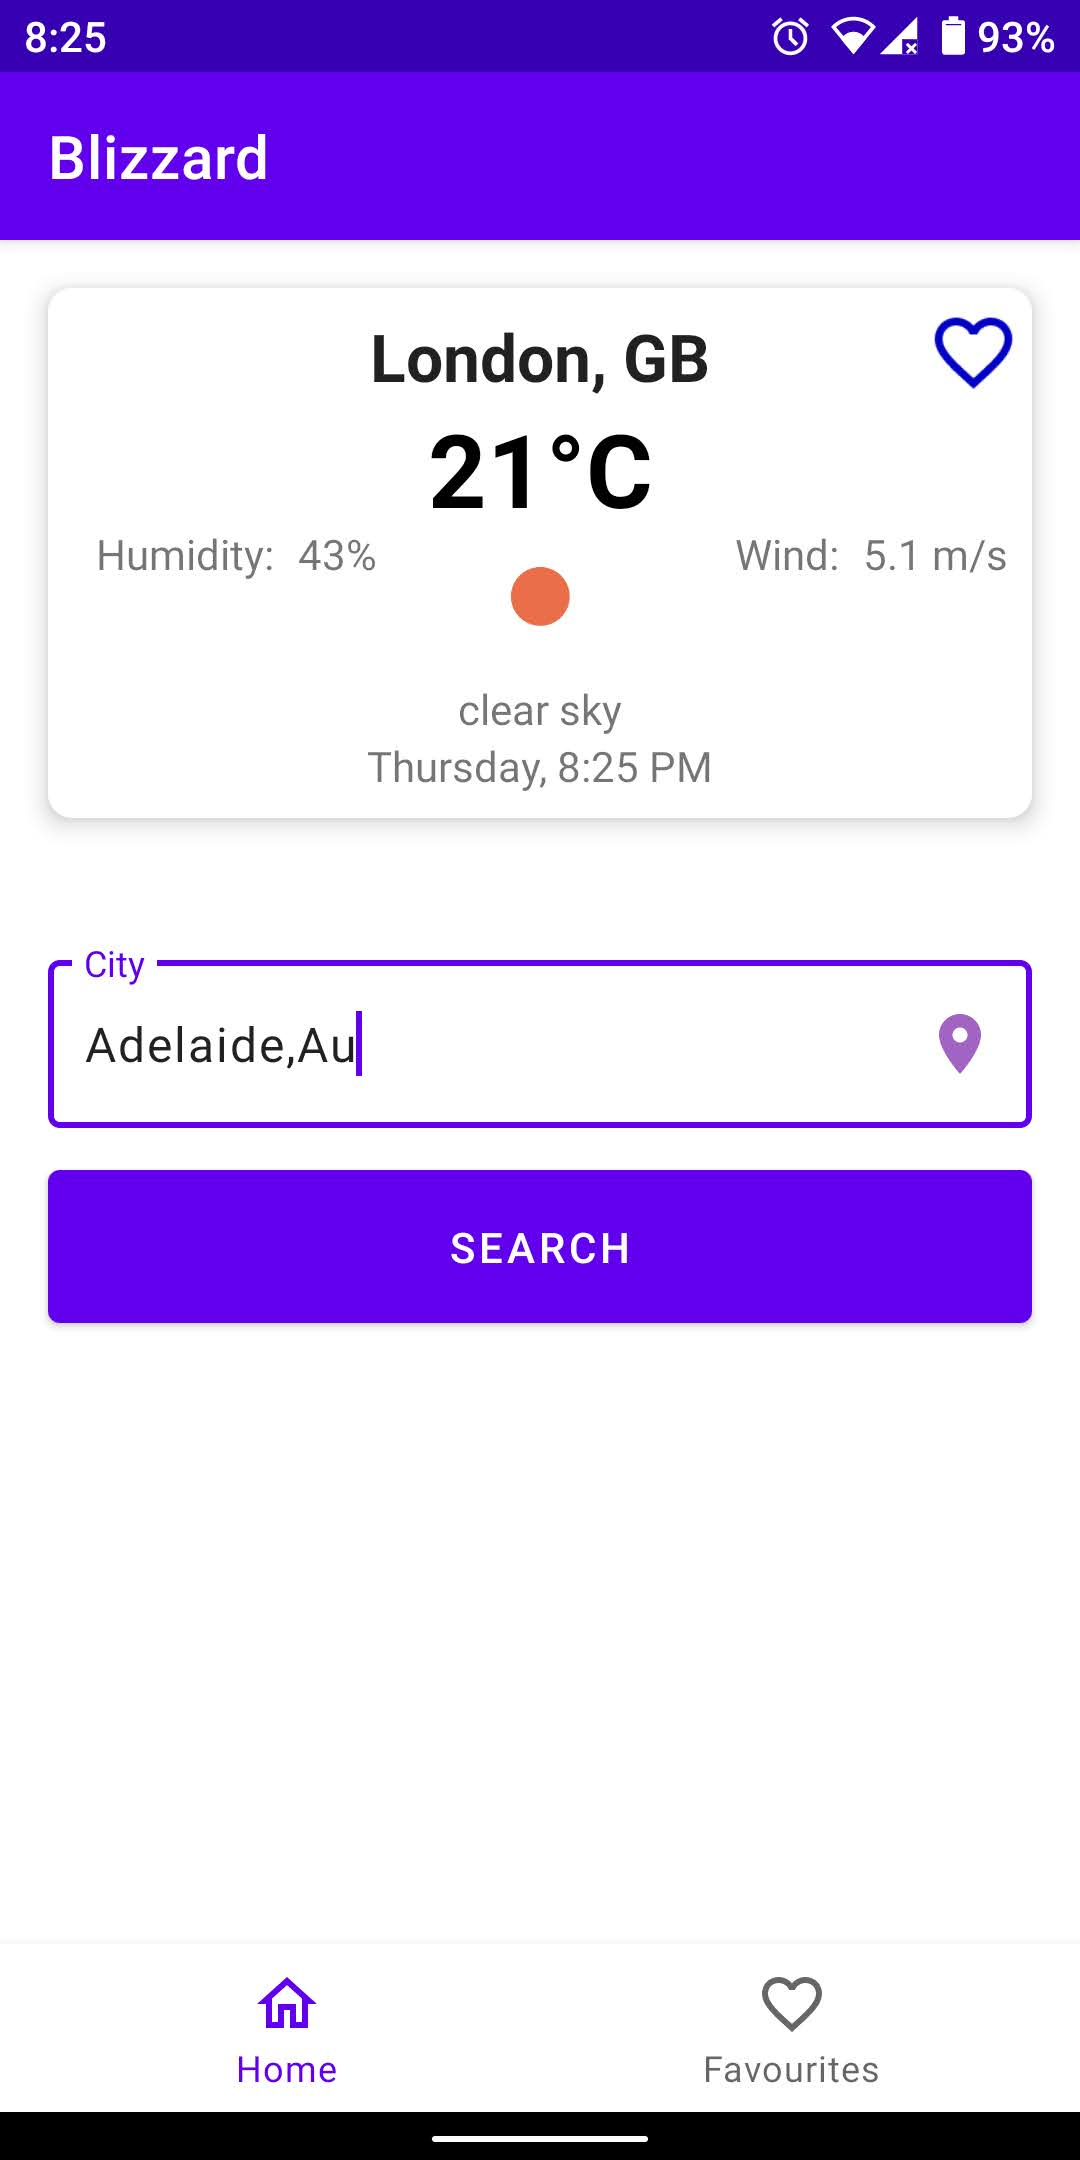
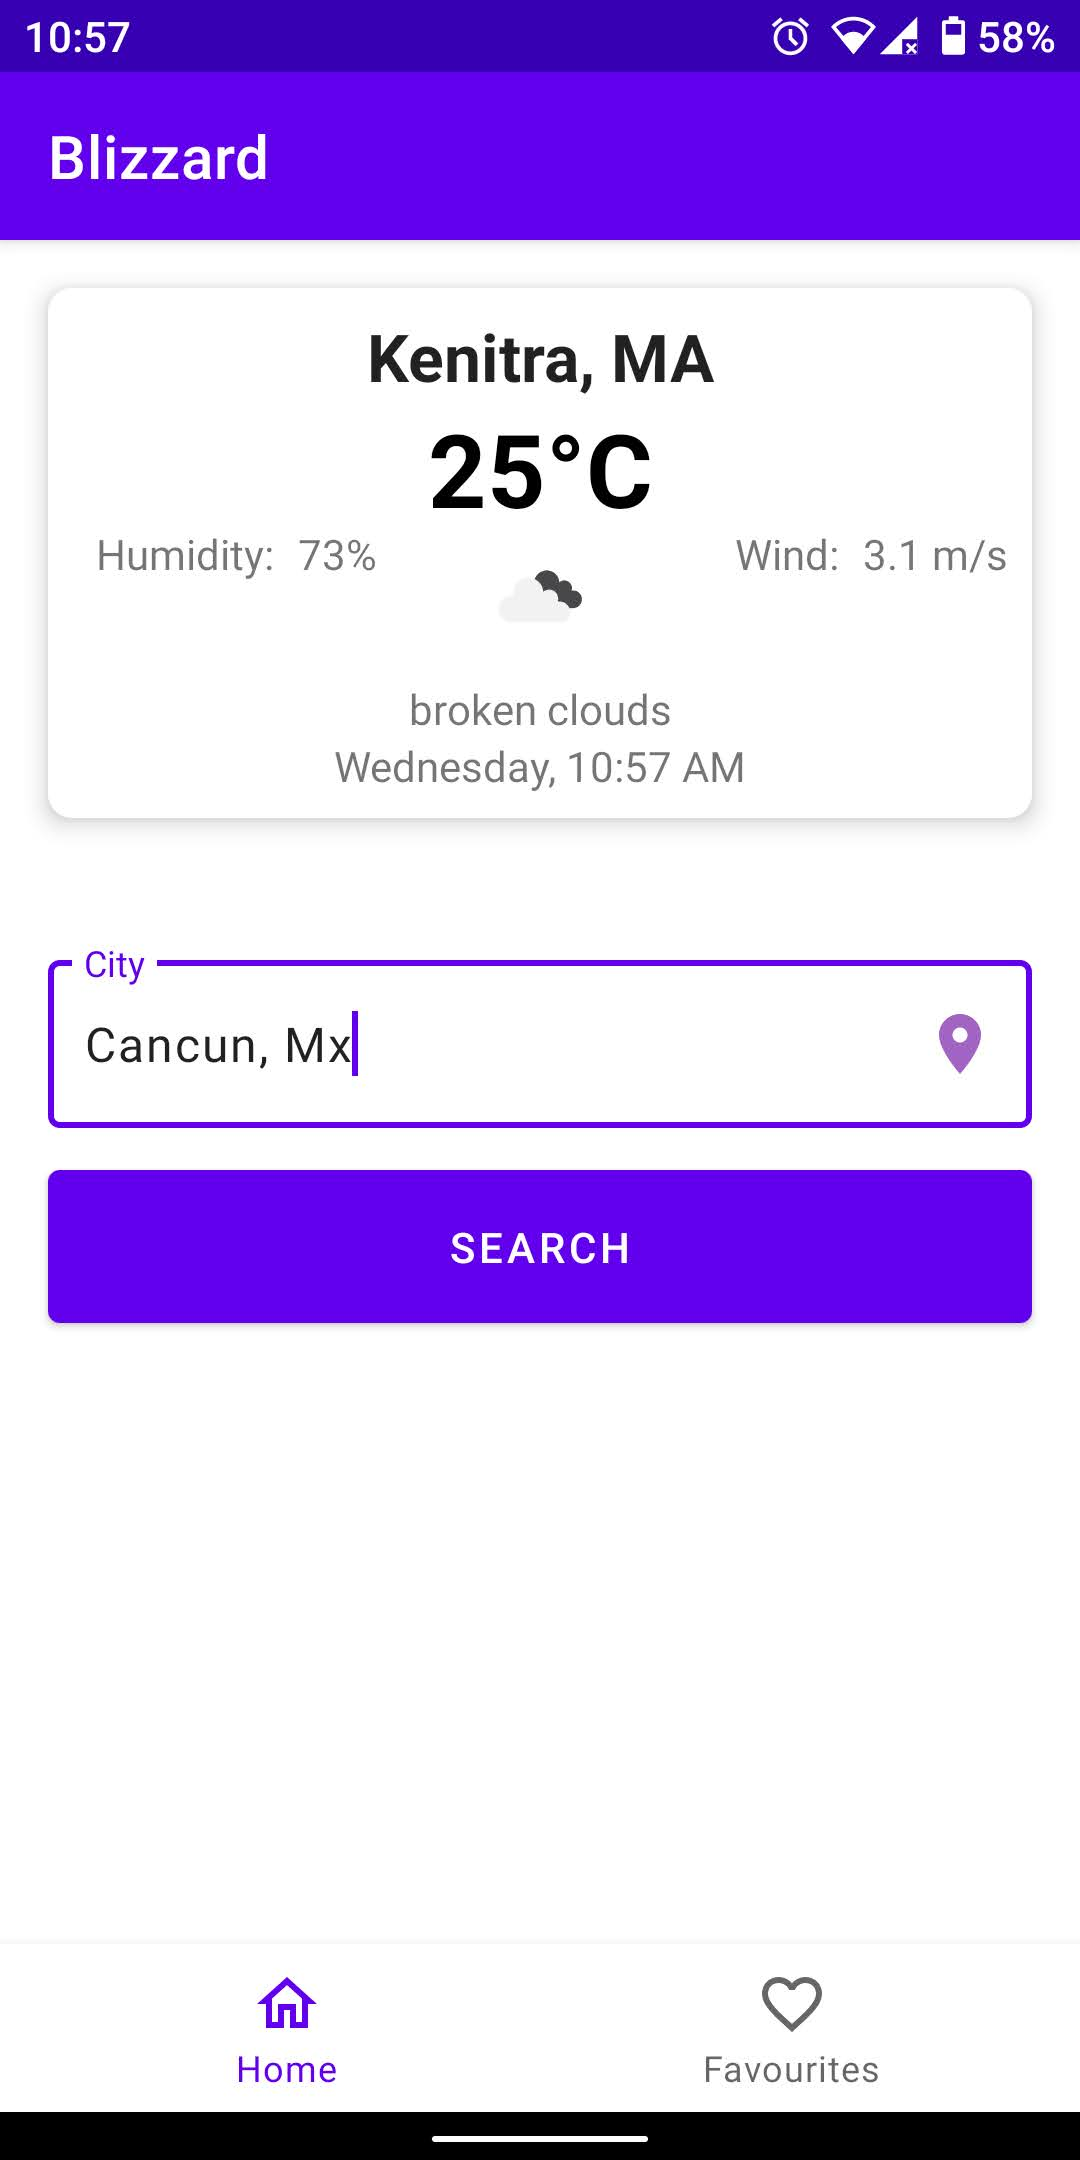
Revert "Add favourite button to card view"
This reverts commit 4ecd72897b1612362eb5ae2cd5f99d4f2526c06f.

diff --git a/app/src/main/java/com/example/blizzard/HomeFragment.java b/app/src/main/java/com/example/blizzard/HomeFragment.java
@@ -98,9 +98,6 @@ public class HomeFragment extends Fragment {
     private TextView tvWindTitle;
     private TextView tvNoInternet;
     private ImageView ivFavourite;
-    Boolean isClicked = false;
-    String cityName;
-
 
 
     @Override
@@ -170,9 +167,9 @@ public class HomeFragment extends Fragment {
             } else if (!mIsNetworkAvailable) {
                 searchBox.setError(getString(R.string.no_internet));
             } else {
-                String searchText = searchBox.getText().toString();
+                String cityName = searchBox.getText().toString();
                 searchByCityName = true;
-                mBlizzardViewModel.getWeather(searchText);
+                mBlizzardViewModel.getWeather(cityName);
                 observeWeatherChanges();
                 animateViews();
             }
@@ -184,29 +181,6 @@ public class HomeFragment extends Fragment {
         });
 
         fabSearch.setOnClickListener(view13 -> reverseViewAnimToInit());
-
-        ivFavourite.setOnClickListener(view14 -> {
-            if (isClicked) {
-                isClicked = false;
-                LoadImage(R.drawable.ic_favorite, ivFavourite);
-                updateIsFavourite(false);
-            } else {
-                isClicked = true;
-                LoadImage(R.drawable.ic_favorite_filed, ivFavourite);
-                updateIsFavourite(true);
-            }
-        });
-    }
-
-    private void updateIsFavourite(boolean b) {
-        if (cityName != null) {
-            Executors.newSingleThreadExecutor()
-                    .execute(() -> {
-                        WeatherDataEntity weatherDataEntity = mBlizzardViewModel.getWeatherByCityName(cityName);
-                        weatherDataEntity.setFavourite(b);
-                        mBlizzardViewModel.updateWeatherData(weatherDataEntity);
-                    });
-        }
     }
 
     private void reverseViewAnimToInit() {
@@ -285,7 +259,7 @@ public class HomeFragment extends Fragment {
         ivFavourite = view.findViewById(R.id.iv_favourite);
     }
 
-    public void makeViewsInvisible() {
+    public void makeViewsInvisible(){
         tvCityTitle.setVisibility(View.INVISIBLE);
         tvCityDescription.setVisibility(View.INVISIBLE);
         tvCityHumidity.setVisibility(View.INVISIBLE);
@@ -434,16 +408,16 @@ public class HomeFragment extends Fragment {
     private void observeWeatherChanges() {
         mBlizzardViewModel.getWeatherLiveData().observe(getViewLifecycleOwner(), weatherData -> {
             if (weatherData != null) {
-                cityName = weatherData.getName();
                 saveToDb(weatherData);
                 mTimeUtil.setTime(weatherData.getDt(), weatherData.getTimezone());
+
                 resolveAppState(weatherData);
             } else {
                 Snackbar.make(view, "Error getting Location", Snackbar.LENGTH_SHORT).show();
                 if (searchByCityName) {
                     Handler handler = new Handler(Looper.getMainLooper());
                     handler.postDelayed(this::reverseViewAnimToInit, 1000L);
-                } else {
+                }else {
                     makeViewsInvisible();
                     ivNoInternet.setVisibility(View.VISIBLE);
                     tvNoInternet.setVisibility(View.VISIBLE);
@@ -453,39 +427,10 @@ public class HomeFragment extends Fragment {
         });
     }
 
-    private void checkIfIsFavourite() {
-        try {
-            WeatherDataEntity entity = mBlizzardViewModel.getWeatherByCityName(cityName);
-            Log.d(TAG, "checkIfIsFavourite: city name is " + cityName);
-            Handler favHandler = new Handler(Looper.getMainLooper());
-            favHandler.post(() -> {
-
-                if (searchByCityName) {
-                    ivFavourite.setVisibility(View.VISIBLE);
-                } else {
-                    ivFavourite.setVisibility(View.INVISIBLE);
-                }
-
-                if (entity.getFavourite()){
-                    isClicked = true;
-                    LoadImage(R.drawable.ic_favorite_filed, ivFavourite);
-                }else {
-                    isClicked = false;
-                    LoadImage(R.drawable.ic_favorite, ivFavourite);
-                }
-
-            });
-        }catch (NullPointerException e){
-            Log.e(TAG, "checkIfIsFavourite: Data not saved yet");
-        }
-
-    }
-
     private void saveToDb(WeatherDataResponse weatherDataResponse) {
         Executors.newSingleThreadExecutor().execute(() -> {
-            WeatherDataEntity entity = new WeatherMapper(mBlizzardViewModel).mapToEntity(weatherDataResponse);
+            WeatherDataEntity entity = WeatherMapper.mapToEntity(weatherDataResponse);
             mBlizzardViewModel.saveWeather(entity);
-            checkIfIsFavourite();
         });
     }
 
@@ -556,11 +501,5 @@ public class HomeFragment extends Fragment {
                 .load(url)
                 .error(R.drawable.ic_cloud)
                 .into(ivWeatherImage);
-    }
-
-    private void LoadImage(int drawable, ImageView imageView) {
-        Glide.with(requireView())
-                .load(drawable)
-                .into(imageView);
     }
 }

diff --git a/app/src/main/java/com/example/blizzard/FavouritesFragment.java b/app/src/main/java/com/example/blizzard/FavouritesFragment.java
@@ -5,7 +5,6 @@ import android.os.Bundle;
 import androidx.annotation.NonNull;
 import androidx.annotation.Nullable;
 import androidx.fragment.app.Fragment;
-import androidx.lifecycle.ViewModelProvider;
 import androidx.recyclerview.widget.LinearLayoutManager;
 import androidx.recyclerview.widget.RecyclerView;
 
@@ -20,7 +19,6 @@ import android.widget.TextView;
 import com.example.blizzard.data.entities.WeatherDataEntity;
 import com.example.blizzard.data.repository.BlizzardRepository;
 import com.example.blizzard.util.FavouriteFragmentAdapter;
-import com.example.blizzard.viewmodel.BlizzardViewModel;
 
 import java.util.ArrayList;
 import java.util.List;
@@ -70,22 +68,12 @@ public class FavouritesFragment extends Fragment {
     }
 
     private void initialiseAdapter() {
-        BlizzardViewModel viewModel = new ViewModelProvider(requireActivity()).get(BlizzardViewModel.class);
+        BlizzardRepository repository = new BlizzardRepository(getContext());
         AtomicReference<List<WeatherDataEntity>> entities = new AtomicReference<>();
         Executors.newSingleThreadExecutor().execute(() -> {
+                    entities.set(repository.getAllDataFromDb());
 
-                    List<WeatherDataEntity> dataEntities = viewModel.getAllDataFromDb();
-                    List<WeatherDataEntity> favWeather = new ArrayList<>();
-
-                    for (WeatherDataEntity dataEntity : dataEntities) {
-                        if (dataEntity.getFavourite()) {
-                            favWeather.add(dataEntity);
-                        }
-                    }
-
-                    entities.set(favWeather);
-
-                    makeViewsVisible(entities);
+            makeViewsVisible(entities);
                 }
         );
 
@@ -100,7 +88,7 @@ public class FavouritesFragment extends Fragment {
                 tvNoData.setVisibility(View.INVISIBLE);
             });
 
-        } else {
+        }else {
             favHandler.postDelayed(() -> {
                 ivNoData.setVisibility(View.VISIBLE);
                 tvNoData.setVisibility(View.VISIBLE);

diff --git a/app/src/main/java/com/example/blizzard/data/database/WeatherMapper.java b/app/src/main/java/com/example/blizzard/data/database/WeatherMapper.java
@@ -2,35 +2,11 @@ package com.example.blizzard.data.database;
 
 /* Created by Rafsanjani on 15/08/2020. */
 
-import android.util.Log;
-
 import com.example.blizzard.data.entities.WeatherDataEntity;
-import com.example.blizzard.data.repository.BlizzardRepository;
 import com.example.blizzard.model.WeatherDataResponse;
-import com.example.blizzard.viewmodel.BlizzardViewModel;
 
 public class WeatherMapper {
-    BlizzardViewModel viewModel;
-    private static final String TAG = "WeatherMapper";
-
-    public WeatherMapper(BlizzardViewModel viewModel) {
-        this.viewModel = viewModel;
-    }
-
-    public WeatherDataEntity mapToEntity(WeatherDataResponse weatherDataResponse) {
-
-        return checkIfAlreadyExists(weatherDataResponse);
-    }
-
-    private WeatherDataEntity checkIfAlreadyExists(WeatherDataResponse weatherDataResponse) {
-        Boolean exists = false;
-        try {
-            WeatherDataEntity entity = viewModel.getWeatherByCityName(weatherDataResponse.getName());
-            exists = entity.getFavourite();
-        } catch (NullPointerException e) {
-            Log.e(TAG, "checkIfAlreadyExists: Data not saved yet");
-        }
-
+    public static WeatherDataEntity mapToEntity(WeatherDataResponse weatherDataResponse) {
         return new WeatherDataEntity(
                 weatherDataResponse.getName(),
                 weatherDataResponse.getSys().getCountry(),
@@ -39,8 +15,7 @@ public class WeatherMapper {
                 weatherDataResponse.getWeather().get(0).getDescription(),
                 weatherDataResponse.getWind().getSpeed(),
                 weatherDataResponse.getDt(),
-                weatherDataResponse.getTimezone(),
-                exists
+                weatherDataResponse.getTimezone()
         );
     }
 

diff --git a/app/src/main/java/com/example/blizzard/data/entities/WeatherDataEntity.java b/app/src/main/java/com/example/blizzard/data/entities/WeatherDataEntity.java
@@ -19,10 +19,9 @@ public class WeatherDataEntity {
     private String country;
     private int dt;
     private int timeZone;
-    private Boolean isFavourite;
 
 
-    public WeatherDataEntity(@NotNull String cityName, String country, double temperature, int humidity, String description, double windSpeed, int dt, int timeZone, Boolean isFavourite) {
+    public WeatherDataEntity(@NotNull String cityName, String country, double temperature, int humidity, String description, double windSpeed, int dt, int timeZone) {
         this.cityName = cityName;
         this.country = country;
         this.description = description;
@@ -31,7 +30,6 @@ public class WeatherDataEntity {
         this.windSpeed = windSpeed;
         this.dt = dt;
         this.timeZone = timeZone;
-        this.isFavourite = isFavourite;
     }
 
     @NotNull
@@ -81,14 +79,6 @@ public class WeatherDataEntity {
 
     public void setWindSpeed(double windSpeed) {
         this.windSpeed = windSpeed;
-    }
-
-    public Boolean getFavourite() {
-        return isFavourite;
-    }
-
-    public void setFavourite(Boolean favourite) {
-        isFavourite = favourite;
     }
 
     public int getDt() {

diff --git a/app/src/main/java/com/example/blizzard/viewmodel/BlizzardViewModel.java b/app/src/main/java/com/example/blizzard/viewmodel/BlizzardViewModel.java
@@ -36,15 +36,7 @@ public class BlizzardViewModel extends AndroidViewModel {
         mWeatherLiveData = mBlizzardRepository.getWeather(cityName);
     }
 
-    public WeatherDataEntity getWeatherByCityName(String cityName){
-        return mBlizzardRepository.getWeatherByCityName(cityName);
-    }
-
-    public void updateWeatherData(WeatherDataEntity entity){
-        mBlizzardRepository.updateWeather(entity);
-    }
-
-    public List<WeatherDataEntity> getAllDataFromDb() {
+    List<WeatherDataEntity> getAllDataFromDb() {
         return mBlizzardRepository.getAllDataFromDb();
     }
 

diff --git a/app/src/main/java/com/example/blizzard/data/repository/BlizzardRepository.java b/app/src/main/java/com/example/blizzard/data/repository/BlizzardRepository.java
@@ -36,14 +36,6 @@ public class BlizzardRepository {
         mWeatherDatabase.weatherDao().saveWeather(weatherDataEntity);
     }
 
-    public WeatherDataEntity getWeatherByCityName(String cityName){
-        return  mWeatherDatabase.weatherDao().getWeatherForCity(cityName);
-    }
-
-    public void updateWeather(WeatherDataEntity entity){
-        mWeatherDatabase.weatherDao().updateWeatherData(entity);
-    }
-
     private static final String TAG = "BlizzardRepository";
 
     public MutableLiveData<WeatherDataResponse> getWeather(String cityName) {

diff --git a/app/src/main/java/com/example/blizzard/data/database/WeatherDao.java b/app/src/main/java/com/example/blizzard/data/database/WeatherDao.java
@@ -22,10 +22,7 @@ public interface WeatherDao {
 
 
     @Query("SELECT cityName FROM weather WHERE cityName = :cityName")
-    LiveData<String> getWeatherLiveDataForCity(String cityName);
-
-    @Query("SELECT * FROM weather WHERE cityName = :cityName")
-    WeatherDataEntity getWeatherForCity(String cityName);
+    LiveData<String> getWeatherForCity(String cityName);
 
     @Update
     void updateWeatherData(WeatherDataEntity weatherDataEntity);
